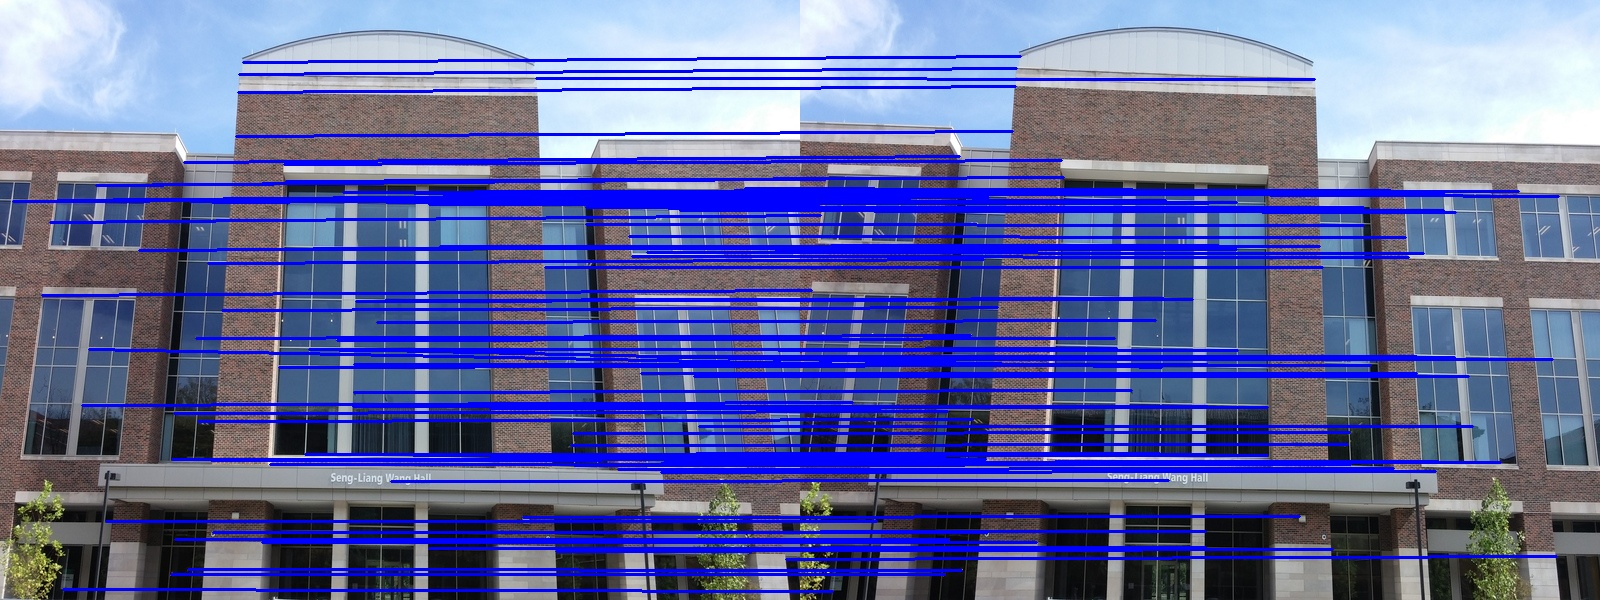
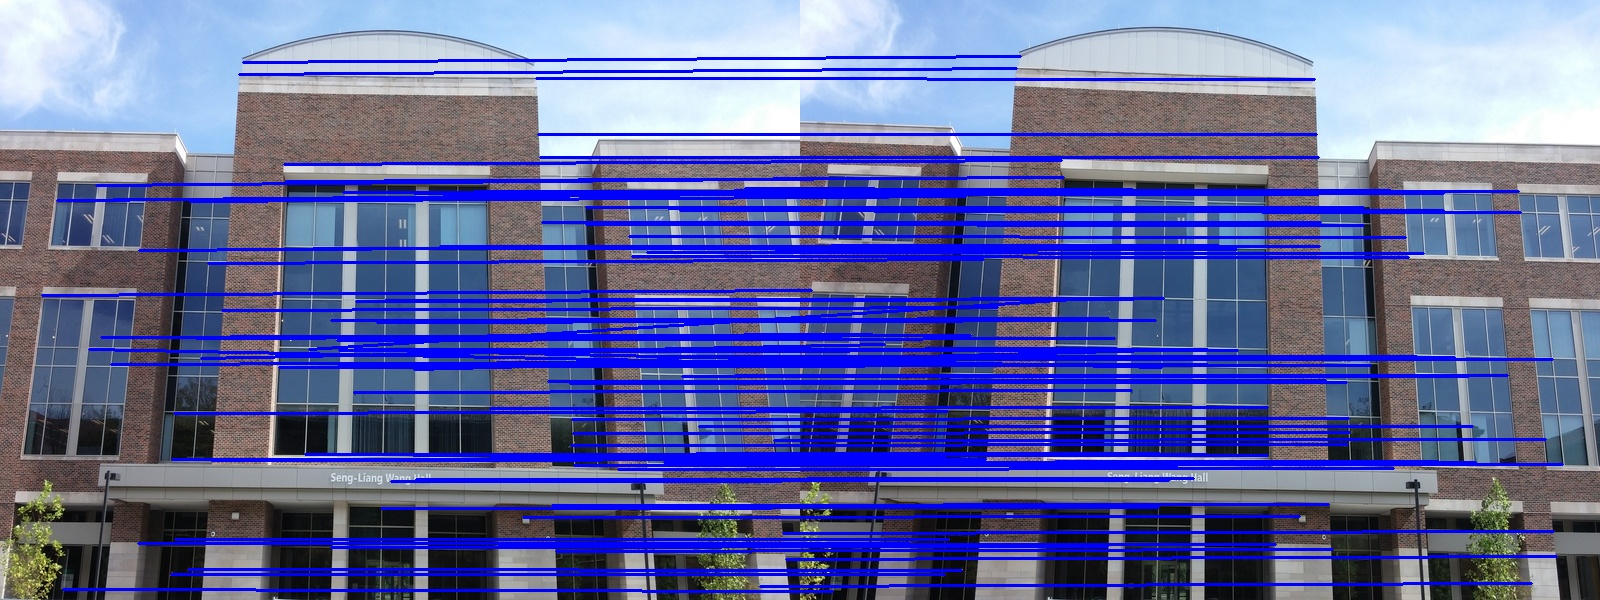
Improve feature matching algorithm

diff --git a/mvg_lib/src/mvg.cpp b/mvg_lib/src/mvg.cpp
@@ -214,38 +214,95 @@ bool sort_by_score(
   return get<0>(a) < get<0>(b);
 }
 
-vector<tuple<KeyPoint, KeyPoint>> get_matches(
+bool sortByScore(
+    tuple <int, int, float> &a,
+    tuple <int, int, float> &b) {
+  return get<2>(a) < get<2>(b);
+}
+
+vector<tuple<KeyPoint, KeyPoint>> getMatches(
     Mat image1,
     vector<KeyPoint> corners1,
     Mat image2,
     vector<KeyPoint> corners2,
     float(*distance)(Mat, Point2f, Mat, Point2f)) {
-  vector<tuple<float, KeyPoint, KeyPoint>> matches;
+  bool swapped = false;
+  Mat keyImage, matchImage;
+  vector<KeyPoint> keyCorners, matchCorners; 
 
-  for(auto it1 = corners1.begin(); it1 < corners1.end(); it1++) {
-    float min_distance = numeric_limits<float>::infinity();
-    tuple<float, KeyPoint, KeyPoint> best_pair;
-    auto best_position = corners2.begin();
-    for(auto it2 = corners2.begin(); it2 < corners2.end(); it2++) {
-      float ssd = distance(image1, (*it1).pt, image2, (*it2).pt);
-      if(ssd < min_distance) {
-        min_distance = ssd;
-        best_pair = make_tuple(min_distance, *it1, *it2);
-        best_position = it2;
+  if(corners1.size() < corners2.size()) {
+    keyImage = image1;
+    matchImage = image2;
+    keyCorners = corners1;
+    matchCorners = corners2;
+  } else {
+    swapped = true;
+    keyImage = image2;
+    matchImage = image1;
+    keyCorners = corners2;
+    matchCorners = corners1;
+  }
+
+  map<int, tuple<int, float>> matches;
+  vector<bool> visited(keyCorners.size(), false);
+
+  for(int i = 0; i < keyCorners.size(); i++) {
+    if(visited.at(i)) {
+      continue;
+    }
+    int bestPosition = 0;
+    float bestScore = numeric_limits<float>::infinity();
+
+    KeyPoint keyCorner = keyCorners.at(i);
+
+    for(int j = 0; j < matchCorners.size(); j++) {
+      float score = distance(keyImage, keyCorner.pt, matchImage, matchCorners.at(j).pt);
+
+      if(score < bestScore) {
+        bool matchNotTaken = (matches.find(j) == matches.end());
+        if(matchNotTaken || get<1>(matches[j]) > score) {
+          bestScore = score;
+          bestPosition = j;
+        }
       }
     }
-    corners2.erase(best_position);
-    matches.push_back(best_pair);
+
+    visited.at(i) = true;
+
+    bool matchNotTaken = (matches.find(bestPosition) == matches.end());
+
+    if(matchNotTaken) {
+      matches[bestPosition] = make_tuple(i, bestScore);
+    } else {
+      int next_i = get<0>(matches[bestPosition]);
+      matches[bestPosition] = make_tuple(i, bestScore);
+      i = next_i;
+      visited.at(i) = false;
+    }
   }
-  sort(matches.begin(), matches.end(), sort_by_score);
+  vector<tuple<int, int, float>> sortedMatches;
+
+  for(auto it = matches.begin(); it != matches.end(); it++) {
+    sortedMatches.push_back(make_tuple(it->first, get<0>(it->second), get<1>(it->second)));
+  }
+
+  sort(sortedMatches.begin(), sortedMatches.end(), sortByScore);
 
   int i = 0;
-  int num_matches = 100;
-  vector<tuple<KeyPoint, KeyPoint>> top_matches;
-  for(auto it = matches.begin(); it < matches.end() && i < num_matches; it++, i++) {
-    top_matches.push_back(make_tuple(get<1>(*it), get<2>(*it)));
+  int numMatches = 100;
+  vector<tuple<KeyPoint, KeyPoint>> topMatches;
+
+  if(swapped) {
+    for(auto it = sortedMatches.begin(); it < sortedMatches.end() && i < numMatches; it++, i++) {
+      topMatches.push_back(make_tuple(matchCorners.at(get<0>(*it)), keyCorners.at(get<1>(*it))));
+    }
+  } else {
+    for(auto it = sortedMatches.begin(); it < sortedMatches.end() && i < numMatches; it++, i++) {
+      topMatches.push_back(make_tuple(keyCorners.at(get<1>(*it)), matchCorners.at(get<0>(*it))));
+    }
   }
-  return top_matches;
+
+  return topMatches;
 }
 
 Mat solveConicSystem(vector<Mat> points) {
@@ -479,7 +536,7 @@ Mat computeHomography(std::vector <Point2f> from, std::vector <Point2f> to) {
       U,
       Vt,
       cv::SVD::FULL_UV);
-  return Vt(Range(numRows, numRows + 1), Range::all()).reshape(0, 3);
+  return Vt(Range(8, 9), Range::all()).reshape(0, 3);
 }
 
 Mat changePerspective(Mat image, Mat homography) {

diff --git a/harris-stephens/src/match_features.cpp b/harris-stephens/src/match_features.cpp
@@ -50,7 +50,7 @@ int main(int argc, char** argv) {
   write(argv[2], result, "-harris-corners");
 
   Mat composite_image = create_composite_image(image1, image2);
-  vector<tuple<KeyPoint, KeyPoint>> matches = get_matches(grayscale_img1, corners1, grayscale_img2, corners2, &ssd);
+  vector<tuple<KeyPoint, KeyPoint>> matches = getMatches(grayscale_img1, corners1, grayscale_img2, corners2, &ssd);
 
   Point2f offset = Point2f(image1.cols, 0);
   for(auto it = matches.begin(); it < matches.end(); it++) {

diff --git a/mvg_lib/include/mvg.h b/mvg_lib/include/mvg.h
@@ -33,7 +33,7 @@ Mat transformConic(Mat pointTransform, Mat conic);
 vector<KeyPoint> harris_stephens_corners(Mat image, float k, float threshold);
 Mat create_composite_image(Mat image1, Mat image2);
 float ssd(Mat image1, Point2f point1, Mat image2, Point2f point2);
-vector<tuple<KeyPoint, KeyPoint>> get_matches(
+vector<tuple<KeyPoint, KeyPoint>> getMatches(
     Mat image1,
     vector<KeyPoint> corners1,
     Mat image2,
